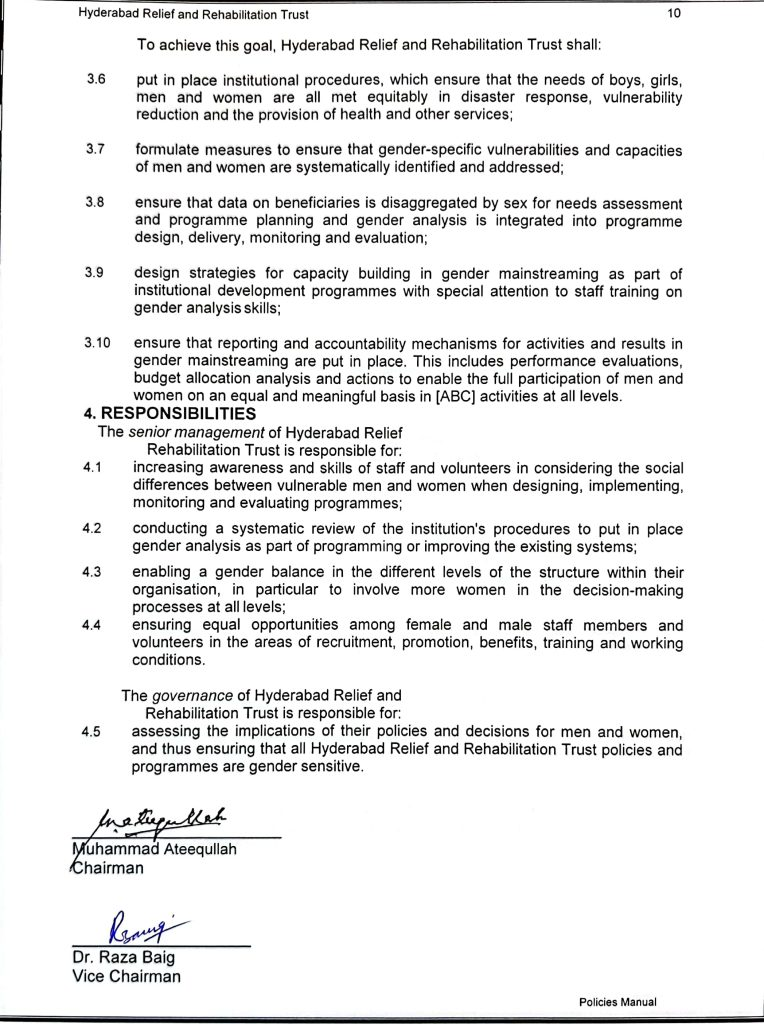
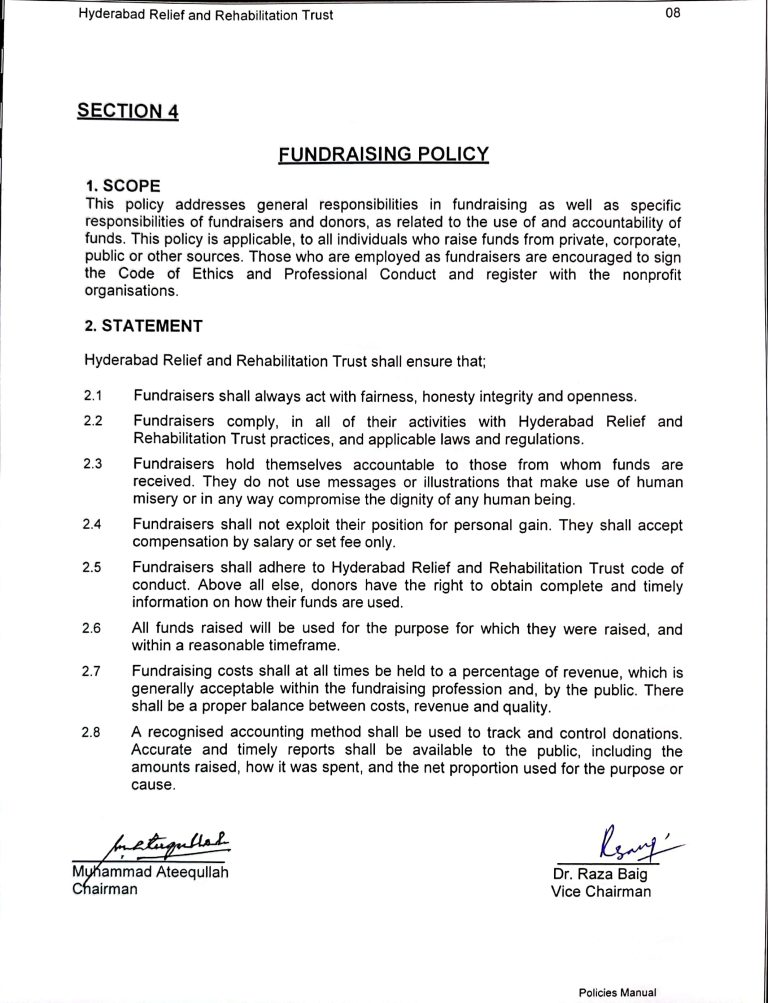
chore: changes in routing some ignored folders changes to routes

diff --git a/src/app/Components/Header/Header.jsx b/src/app/Components/Header/Header.jsx
@@ -53,35 +53,35 @@ const Header = ({ isTopBar, variant }) => {
         label: "About Us",
         // href: '/about',
         subItems: [
-          { label: "Vission & Mission", href: "/vission&mission" },
-          { label: "History", href: "/history" },
-          { label: "Introduction", href: "/introduction" },
-          { label: "Facts & Figures", href: "/facts&figures" },
-          { label: "Board Of Trustees", href: "/board-of-trustees" },
-          { label: "Management", href: "/management" },
-          { label: "Policies", href: "/policies" },
-          { label: "Contact Us", href: "/contact-us" },
+          { label: "Vission & Mission", href: "/about/vission&mission" },
+          { label: "History", href: "/about/history" },
+          { label: "Introduction", href: "/about/introduction" },
+          { label: "Facts & Figures", href: "/about/facts&figures" },
+          { label: "Board Of Trustees", href: "/about/board-of-trustees" },
+          { label: "Management", href: "/about/management" },
+          { label: "Policies", href: "/about/policies" },
+          { label: "Contact Us", href: "/about/contact-us" },
         ],
       },
       {
         label: "Medical Service",
         // href: '/service',
         subItems: [
-          { label: "Our Services", href: "/our-services" },
+          { label: "Our Services", href: "/services/our-services" },
           {
             label: "Clinical Department & Faculty",
-            href: "/department&Faculty",
+            href: "/services/department&Faculty",
           },
-          { label: "List Of Consultants", href: "/list-of-consultants" },
+          { label: "List Of Consultants", href: "/services/list-of-consultants" },
         ],
       },
       {
         label: "Help Us",
         // href: '/help-us',
         subItems: [
-          { label: "Zakat", href: "/zakat" },
-          { label: "Donations", href: "/donations" },
-          { label: "Sponsor An Equipment", href: "/sponsor-an-equipment" },
+          { label: "Zakat", href: "/help-us/zakat" },
+          { label: "Donations", href: "/help-us/donations" },
+          { label: "Sponsor An Equipment", href: "/help-us/sponsor-an-equipment" },
         ],
       },
       { label: "News & Events", href: "/news&events" },

diff --git a/src/app/Components/PageHeading/index.jsx b/src/app/Components/PageHeading/index.jsx
@@ -20,9 +20,9 @@ const PageHeading = ({ data }) => {
         {urlSegments.map((segment, index) => (
           <li key={index} className="breadcrumb-item">
             {index < urlSegments.length - 1 ? (
-              <Link href={`/${urlSegments.slice(0, index + 1).join("/")}`}>
+              <>
                 {segment}
-              </Link>
+              </>
             ) : (
               <span className="active">{segment}</span>
             )}

diff --git a/src/app/sass/components/_topvideo.scss b/src/app/sass/components/_topvideo.scss
@@ -1,5 +1,4 @@
 .auto-play-video-container {
-  margin-top: 100px;
   width: 100%;
   overflow: hidden;
 }
